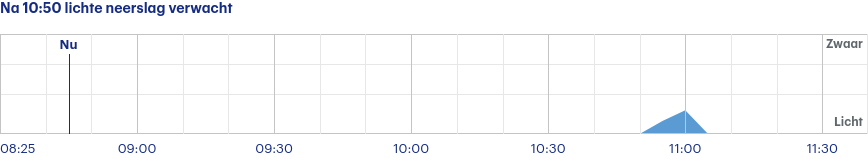
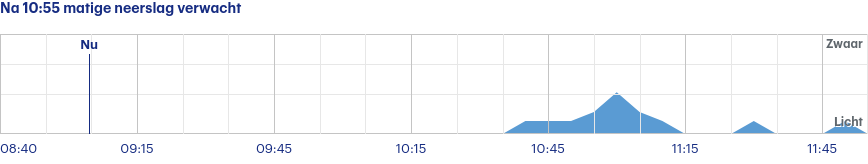
Latest scraping buienradar: Mon Jul 24 07:00:35 UTC 2023

diff --git a/scrapes/buienradar/buienradar-jette-3-uur.md b/scrapes/buienradar/buienradar-jette-3-uur.md
@@ -1,4 +1,4 @@
-Na 10:50 lichte neerslag verwacht
+Na 10:55 matige neerslag verwacht
 
 ![](buienradar-jette-3-uur.png)
 
